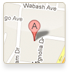
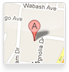
major updates! GETTING CLOSER!

diff --git a/webapp/views/home/index.html b/webapp/views/home/index.html
@@ -1,60 +1,76 @@
 <div class="col8" id="left-col">
 	<article>
-	<h2>
-		Welcome to EnterMedia 8</h2>
-	<div id="home-video">
-		&nbsp;</div>
-	<aside class="breakout">With <strong>EnterMedia 8</strong> you can create your own branded media sharing website similar to <strong>YouTube</strong> or <strong>Flickr</strong> using Open Source technologies. </aside> <section class="columns">
-	<h6>
-		Secure Permissions</h6>
-	<p>
-		With EnterMedia you can fully customize permissions to grant or restrict user access to certain files and features. Additionally EnterMedia tracks and stores history for each uploaded asset so that you stay informed about your data.</p>
-	<h6>
-		Integrated</h6>
-	<p>
-		Switching over to EnterMedia doesn&#39;t mean losing the look and feel of your current site. Our interface can be customized to blend seamlessly with you existing site, giving you the power to host your own media in a controlled and branded environment.</p>
-	<h6>
-		Scalable</h6>
-	<p>
-		EnterMedia easily keeps pace with your departments growth. One EnterMedia Installation can host as many catalogs and instances as you need, so you never need to worry about outgrowing your server platform.</p>
-<!--h6>Share Photos &amp; Videos</h6>
-		    			<p>Lorem ipsum dolor sit amet, consectetur adipisicing elit, sed do eiusmod tempor incididunt ut labore et dolore magna aliqua. Ut enim ad minim veniam, quis nostrud exercitation ullamco laboris nisi ut aliquip ex ea commodo consequat. Duis aute irure dolor in reprehenderit in voluptate velit esse cillum dolore eu fugiat nulla pariatur.</p> 
-		    			<h6>Create a Community</h6>	
-		    			<p>Excepteur sint occaecat cupidatat non proident, sunt in culpa qui officia deserunt mollit anim id est laborum.Lorem ipsum dolor sit amet, consectetur adipisicing elit, sed do eiusmod tempor incididunt ut labore et dolore magna aliqua. Ut enim ad minim veniam, quis nostrud exercitation ullamco laboris nisi ut aliquip ex ea commodo consequat. Duis aute irure dolor in reprehenderit in voluptate velit esse cillum dolore eu fugiat nulla pariatur.</p> 
-		    			<h6>Organize Your Files</h6>
-		    			<p>Velit esse cillum dolore eu fugiat nulla pariatur. Excepteur sint occaecat cupidatat non proident, sunt in culpa qui officia deserunt mollit anim id est laborum.</p>
-		    			<h6>Go Further</h6>
-		    			<p>Ut enim ad minim veniam, quis nostrud exercitation ullamco laboris nisi ut aliquip ex ea commodo consequat. Duis aute irure dolor in reprehenderit in voluptate v. Sed do eiusmod tempor incididunt ut labore et dolore magna aliqua. Ut enim ad minim veniam, quis nostrud exercitation ullamco laboris nisi ut aliquip ex ea commodo consequat. Duis aute irure dolor in reprehenderit in voluptate velit esse cillum dolore eu fugiat nulla pariatur. Excepteur sint occaecat cupidatat non proident, sunt in culpa qui officia deserunt mollit anim id est laborum.</p -->	</section> <article>
-	<div class="big-button">
-		<a class="btn" href="/views/tour/index.html">Evaluate Entermedia 8</a>
-		<p>
-			Take our tour!</p>
-	</div>
-	</article></article></div>
+		<h2> Welcome to EnterMedia 8</h2>
+		<aside class="breakout">
+			With <strong>EnterMedia 8</strong> you can create your own branded media sharing website similar to <strong>YouTube</strong> or <strong>Flickr</strong> using Open Source technologies.
+		</aside>
+		<section class="columns">
+			<section class="columns-2">
+				<h6> Secure Permissions</h6>
+				<p>
+					With EnterMedia you can fully customize permissions to grant or restrict user access to certain files and features. Additionally EnterMedia tracks and stores history for each uploaded asset so that you stay informed about your data.
+				</p>
+				<h6> Integrated</h6>
+				<p>
+					Switching over to EnterMedia doesn&#39;t mean losing the look and feel of your current site. Our interface can be customized to blend seamlessly with you existing site, giving you the power to host your own media in a controlled and branded environment.
+				</p>
+				<h6> Scalable</h6>
+				<p>
+					EnterMedia easily keeps pace with your departments growth. One EnterMedia Installation can host as many catalogs and instances as you need, so you never need to worry about outgrowing your server platform.
+				</p>
+			</section>
+			<!--h6>Share Photos &amp; Videos</h6>
+			<p>Lorem ipsum dolor sit amet, consectetur adipisicing elit, sed do eiusmod tempor incididunt ut labore et dolore magna aliqua. Ut enim ad minim veniam, quis nostrud exercitation ullamco laboris nisi ut aliquip ex ea commodo consequat. Duis aute irure dolor in reprehenderit in voluptate velit esse cillum dolore eu fugiat nulla pariatur.</p>
+			<h6>Create a Community</h6>
+			<p>Excepteur sint occaecat cupidatat non proident, sunt in culpa qui officia deserunt mollit anim id est laborum.Lorem ipsum dolor sit amet, consectetur adipisicing elit, sed do eiusmod tempor incididunt ut labore et dolore magna aliqua. Ut enim ad minim veniam, quis nostrud exercitation ullamco laboris nisi ut aliquip ex ea commodo consequat. Duis aute irure dolor in reprehenderit in voluptate velit esse cillum dolore eu fugiat nulla pariatur.</p>
+			<h6>Organize Your Files</h6>
+			<p>Velit esse cillum dolore eu fugiat nulla pariatur. Excepteur sint occaecat cupidatat non proident, sunt in culpa qui officia deserunt mollit anim id est laborum.</p>
+			<h6>Go Further</h6>
+			<p>Ut enim ad minim veniam, quis nostrud exercitation ullamco laboris nisi ut aliquip ex ea commodo consequat. Duis aute irure dolor in reprehenderit in voluptate v. Sed do eiusmod tempor incididunt ut labore et dolore magna aliqua. Ut enim ad minim veniam, quis nostrud exercitation ullamco laboris nisi ut aliquip ex ea commodo consequat. Duis aute irure dolor in reprehenderit in voluptate velit esse cillum dolore eu fugiat nulla pariatur. Excepteur sint occaecat cupidatat non proident, sunt in culpa qui officia deserunt mollit anim id est laborum.</p -->
+		</section>
+		<article>
+			<div class="big-button">
+				<a class="btn" href="/views/tour/index.html">Evaluate Entermedia 8</a>
+				<p>
+					Take our tour!
+				</p>
+			</div>
+		</article>
+	</article>
+</div>
 <div class="col4" id="right-col">
 	<div class="big-button">
 		<a class="btn" href="/views/plans/index.html">See Plans &amp; Pricing</a>
 		<p>
-			Or get the <a href="/views/download/index.html">Source Code!</a></p>
+			Or get the <a href="/views/download/index.html">Source Code!</a>
+		</p>
 	</div>
 	<div class="stb">
 		<div class="stb-top">
-			&nbsp;</div>
+			&nbsp;
+		</div>
 		<div class="steps-to-buy">
 			<div class="sidebar-title">
-				<span class="install ir">Installation</span> <a href="/views/tour/index.html#installation">Installation</a></div>
+				<span class="install ir">Installation</span><a href="/views/tour/index.html#installation">Installation</a>
+			</div>
 			<p>
-				Our knowledgeable staff can help you install EnterMedia on your server based on your specific requirements. Find out more . . .</p>
+				Our knowledgeable staff can help you install EnterMedia on your server based on your specific requirements.
+			</p>
 			<div class="sidebar-title">
-				<span class="training ir">Training</span> <a href="/views/tour/index.html#training">Training</a></div>
+				<span class="training ir">Training</span><a href="/views/tour/index.html#training">Training</a>
+			</div>
 			<p>
-				We now offer On-site training to help you make the most of your EnterMedia Software. Take a look at our competitive pricing, and find out how we can bring your understanding to the next level.</p>
+				We offer training to help you make the most of your EnterMedia Software. Take a look at our competitive pricing, and find out how we can bring your understanding to the next level.
+			</p>
 			<div class="sidebar-title">
-				<span class="support ir">Support</span> <a href="/views/tour/index.html#support">Support</a></div>
+				<span class="support ir">Support</span><a href="/views/tour/index.html#support">Support</a>
+			</div>
 			<p>
-				EnterMedia developers are always available should you require consulting or customization for your installation. Read more . . .</p>
+				EnterMedia developers are always available should you require consulting or customization for your installation.
+			</p>
 		</div>
 		<div class="stb-bottom">
-			&nbsp;</div>
+			&nbsp;
+		</div>
 	</div>
 </div>

diff --git a/webapp/views/features/index.html b/webapp/views/features/index.html
@@ -1,24 +1,29 @@
 <div class="col12">
 	<img alt="Enterprise Media Library" src="$home/media/features/eml_banner.jpg" style="margin: 20px 0px;">
 	<aside class="breakout">
-		<strong> In EnterMedia "applications," form the core</strong> of the installation and in addition to that you can add extensible applications. With EnterMedia 8 we finally have an out of the box solution that addresses most of our customers needs. After over 10 years of consulting in the Digital Asset Management arena we have developed a platform that addresses the variety of tasks required for an enterprise level server.
+		<strong> The EnterMedia evironment is powered by applications.</strong> Applications are powered by the core server and provide different, focused solutions to our clients problems. All applications are customizable from the ground up.   EnterMedia is an open source platform giving you access to as much or as little code as you desire.
 	</aside>
 	<section class="columns-2">
 		<p>
-			EnterMedia 8 ships with three applications that form the core of your installation. Library, Share, and Manager. Library is the behemoth. We have robust metadata tables that enable you to quickly find the media you are looking for. Share is like a light weight version of Library. It helps you set up a new website quickly so you can share your media easily. Manager lets you control the infrastructure of your installation, adding catalogs and creating new instances easily.
+			With EnterMedia 8, we have devised an out of the box solution that addresses most of our customers needs. This version is the culmination of our ten years of consulting in the Digital Asset Management arena. Our code has evolved and has been developed into a platform that addresses the variety of tasks required for an enterprise level server.
+		</p>
+		<p>
+			EnterMedia 8 ships with three applications that form the core of your installation: Library, Share, and Manager. Each application has its own unique environment and user friendly interface. Library is data driven and empowers team members to do work behind the scenes. Share is about community and provides an intuitive environment for visitors and other technology muggles. Manager allows the technical puppeteers to redefine the rules of engagement, strengthen security, and customize or create new catalogs.
 		</p>
 		<p>
 			What EnterMedia 8 does is consolidate our past ten years of private consulting services where we have customized our installations to the clients specifications. Since then, we have addressed so many things, but there has been some overlap. We have taken those features that are the most commonly requested, and built a release around it, and we think you are going to enjoy using it.
 		</p>
 	</section>
-	
 	<div class="hr" style="margin: 20px 0;"></div>
 	<div class="row">
 		<div class="col4">
-			<h5> Enterprise Media Library (EML)</h5>
+			<h5> EnterMedia Library</h5>
 			<img style="margin-bottom: 15px;" src="$home$themeprefix/images/features-eml.png" />
 			<p>
-				The Enterprise Media Library application is where you manage your assets, and it is feature packed to aid you in administration. You can setup permissions and enable security to control your content. You can search for media and edit metadata at the deepest levels. A lot of companies come to us asking how much it will cost to expand their installation, and many times they don&#39;t realize they have those capabilities already. We have a new user interface that makes EML easy and pleasant to work with. Library is robust organizing tool, and the best way to learn more about it is to contact us.
+				The Enterprise Media Library application is where you manage your assets, and it is feature packed to aid you in administration. You can setup permissions and enable security to control your content. You can search for media and edit metadata at the deepest levels.
+			</p>
+			<p>
+				A lot of companies come to us asking how much it will cost to expand their installation, and many times they don&#39;t realize they have those capabilities already. We have a new user interface that makes Library easy and pleasant to work with. Library is robust organizing tool, and the best way to learn more about it is to contact us.
 			</p>
 		</div>
 		<div class="col4">
@@ -27,12 +32,12 @@
 			<p>
 				EnterMedia share is a web-based media sharing and distribution application. It is like a light weight version of the library application that enables you to quickly share your content online. Share looks like a website. You can change your logo, you can change the color scheme. So, you can make it your own. It allows people to comment, share to Facebook, upload, view assets in galleries, and play videos.
 			</p>
-			</div>
+		</div>
 		<div class="col4">
 			<h5> EnterMedia Manager</h5>
 			<img style="margin-bottom: 15px;" src="$home$themeprefix/images/features-manager.png" />
 			<p>
-				For the brand new release of EnterMedia 8, we decide to rethink the way you manager your installation.  With the manager application you get a top-down view of your system, and that gives you knowledge.   Manager is one of three bundled applications that form the core of the EnterMedia feature set.  Once you initiate a new catalog, you can quickly add an instance of the Enterprise Media Library, and then a Share website to distribute your content.  With just a few clicks you'll be up and running, and ready to upload your media.  Our new application interface has an inviting feel, inspired by today's industry leaders.
+				For the brand new release of EnterMedia 8, we decided to rethink the way you manage your installation.  With the manager application you get a top-down view of your system, and that gives you knowledge.   Manager is one of three bundled applications that form the core of the EnterMedia feature set.  Once you initiate a new catalog, you can quickly add an instance of the Enterprise Media Library, and then a Share website to distribute your content.  With just a few clicks you'll be up and running, and ready to upload your media.  Our new application interface has an inviting feel, inspired by today's industry leaders.
 			</p>
 		</div>
 	</div>
@@ -87,7 +92,7 @@
 				<li>
 					<strong>Simple Search and Advanced Search</strong> - Searches through 100,000's of assets across multiple catalogs in milliseconds. Displays recommended and related search terms.
 				</li>
-								<li>
+				<li>
 					<strong>Dynamic Search Query Builder</strong> - Add any available meta-data field to your search query on-the-fly.
 				</li>
 			</ul>
@@ -124,7 +129,6 @@
 				<li>
 					<strong>Immediate download of originals and zipped assets</strong>
 				</li>
-				
 				<li>
 					<strong>Multi-Language Support</strong>
 				</li>

diff --git a/webapp/views/about/index.html b/webapp/views/about/index.html
@@ -1,10 +1,27 @@
 <div class="col8" id="left-col">
 	<article>
-	<div id="home-video">
-		&nbsp;</div>
-	<aside class="breakout"> <strong>EnterMedia was launched in 2008</strong> with headquarters in Cincinnati, Ohio with representatives in Canada, California, New York and South America. Christopher Burkey is the original creator of EnterMedia and has been a CEO within the digital media industry for over 10 years. </aside> <section class="columns">
-	<p>
-		EnterMedia has over 10 years experience developing digital asset managment and content management systems for enterprise clients who have installed EnterMedia for the video publishing and marketing needs. We have also had good experiences working closely with large websites such as the Slamdance film festival and EQOUS, India&#39;s largest industrial products portal.</p>
-	<p>
-		Enterprise clients such as World Wrestling Entertainment use EnterMedia for sharing assets with licesnsees while Primedia, who runs apartmentguide.com and rentals.com use EnterMedia to manage millions of assets for their websites. ALM, the largest legal magazine publisher in the world, uses EnterMedia for tracking documents within their company and publishing them through their websites.</p>
-	</section> <article> </article></article></div>
+		<h2>EnterMedia: Then and Now.</h2>
+		<aside class="breakout">
+			<strong>EnterMedia was launched in 2008</strong> with headquarters in Cincinnati, Ohio with representatives in Canada, California, New York and South America. Christopher Burkey is the original creator of EnterMedia and has been a CEO within the digital media industry for over 10 years.
+		</aside>
+		<section class="columns">
+			<p>
+				EnterMedia was launched in 2008 with its headquarters in Cincinnati, Ohio. We currently have developers and other team members
+				in Canada, California, New York and South America. Christopher Burkey is our wizard behind the curtain and has been a CEO in
+				the digital media industry for over ten years.
+			</p>
+			<p>
+				With a decade of experience in developing digital asset management software and content management systems for enterprise clients,
+				EnterMedia has a competitive edge in the ever-evolving market. Video publishing and marketing needs are driving corporate growth,
+				and we are at the forefront of innovation with modern features and a client based development model. Meaning that we let the needs
+				and direction of the market be our guiding star.
+			</p>
+			<p>
+				We have had amazing experiences working with a variety of customers, all with their own plethora of ideas. From entertainment
+				giants like Slamdance film festival and WWE, to educational organizations like Harvard University and the Educational
+				Theatre Association we provide the ability for each entity to share branded content with its customers, employees, or fan-base
+				like never before.
+			</p>
+		</section>
+	</article>
+</div>

diff --git a/webapp/views/download/index.html b/webapp/views/download/index.html
@@ -2,23 +2,38 @@
 	    		<article>
 		    		<h2>Feeling brave?</h2>
 		    		<aside class="breakout">
-		    			<strong>Download EnterMedia</strong> and begin your journey into the uncharted open source universe. 
+		    			<strong>Download EnterMedia</strong> and begin your journey into the open source universe. 
 		    			A library of your media on your terms is just a few clicks away.
 		    		</aside>
 		    		<p>
-		    			Just unzip the ROOT.war within your Java web server webapps directory. After deployment, your application is ready for use and customization. 
+		    			Just unzip the <strong>ROOT.war</strong> within your Java web server webapps directory. After deployment, your application is ready for use and customization. 
 		    			Pretty colors, flashy formats, and intuitive data arrangement are only limited to your imagination. Feel free to edit, arrange and organize your 
 		    			assets like the brave pioneer that you are.
 		    		</p>
 		    		<h5>Prefer a guide?</h5>
 					<p>
 					Send up a <a href="/views/contact/index.html">smoke signal</a> and we'll arrange a demo. Our team will walk you through the features and settings 
-					of our creation. Our model is flexible so you can direct the agenda and stick to what is relevant to your needs. We have provided solutions for 
+					of our creation. Our model is flexible so you can direct the agenda and stick to what is relevant to your needs. 
+					</p>
+					<p>
+					We have provided solutions for 
 					educational institutions, business environments, and entertainment empires. Your success is our success and we'll make sure that you're ready to 
 					ride before we take the training wheels away.
 					</p>
 		    	<article>
 	    	</div>
 	    	<div class="col4" id="right-col">
-	    		
+	    		<img style="margin-bottom: 15px;" src="$home$themeprefix/images/contact-icon.png" />
+	    		<p class="sidebar-block download">
+	    			<strong>EnterMedia 8.0:</strong><br />
+	    			<a href="#">Stable Release</a><br />
+	    		</p>
+	    		<p class="sidebar-block download">
+	    			<strong>EnterMedia 8.1 (Beta):</strong><br />
+	    			<a href="#">Nighly Build</a><br />
+	    		</p>
+	    		<p class="sidebar-block download">
+	    			<strong>EnterMedia 7.5 (Legacy):</strong><br />
+	    			<a href="#">Stable Release</a><br />
+	    		</p>
 	    	</div>

diff --git a/webapp/views/contact/index.html b/webapp/views/contact/index.html
@@ -1,12 +1,11 @@
 <div class="col12">
-	<h2>Connect with an Open Community.</h2> 
+	<h2>Connect with an Open Community</h2> 
 	<aside class="breakout">
 		Questions? Comments? Looking for a soul mate? We would love to help out with either of the first two. 
 		Just tell us a little about yourself and share the details. We have marketing, technical support, 
 		and an open interactive community of other people just like you who make a great audience.
 	</aside>
 </div>
-
 <div class="col8" id="left-col">
 		    	<form id="contact-us" class="clearfix">
 		    		<label for="name" class="clearfix first">Name
@@ -38,7 +37,16 @@
 		    	</form>
 	    	</div>
 	    	<div class="col4" id="right-col">
-	    		<p class="contact-block"><strong>EnterMedia Inc.</strong><br />
+	    		<img style="margin-bottom: 15px;" src="$home$themeprefix/images/contact-icon.png" />
+	    		<p class="sidebar-block phone">
+	    			<strong>Sales:</strong><br />
+	    			1 (937) 671-6212<br />
+	    		</p>
+	    		<p class="sidebar-block support">
+	    			<strong>Support:</strong><br />
+	    			<a href="mailto:gatekeeper@entermedisoftware.com">gatekeeper@entermedisoftware.com</a>	    		
+	    		</p>
+	    		<p class="sidebar-block map"><strong>EnterMedia Inc.</strong><br />
 				1550 Magnolia Dr.<br />
 				Cincinnati, Ohio, 45215</p>
 	    	</div>

diff --git a/webapp/views/plans/index.html b/webapp/views/plans/index.html
@@ -80,10 +80,13 @@
 		</hgroup>
 		<section>
 			<p>
-				Our mash up installation is the perfect way for developers to access our source code, so they can see first hand the potential power of the EnterMedia digital asset management system.  EnterMedia is open source so the code is freely available and we want to do our best to encourage development by interested parties.
+				Our Mash Up installation is the perfect way for developers to access our source code, so they can see first hand the potential power of the EnterMedia digital asset management system.  EnterMedia is open source so the code is freely available and we want to do our best to encourage development by interested parties.
 			</p>
 			<p>
 				Check back soon for our new development forum, where you will be able to submit issues to the community and search previous postings that might address your same issue.
+			</p>
+			<p>
+				In the meantime, visit our <a href="#">Google Groups</a> page for technical support discussions about EnterMedia's nightly builds.
 			</p>
 		</section>
 		<a class="scrollto" href="#top" style="text-align: right; display: block;">Back to Top</a>

diff --git a/webapp/theme/styles/theme.css b/webapp/theme/styles/theme.css
@@ -944,10 +944,22 @@ div.hr {
 
 /* CONTACT STYLES */
 
-p.contact-block {
-	background: url('../images/contact-map.png') top left no-repeat;
+p.sidebar-block {
 	color: #666;
-	padding: 8px 0 20px 80px;
+	padding: 17px 0 22px 80px;
+}
+p.sidebar-block.phone {
+	background: url('../images/contact-phone.png') top left no-repeat;
+}
+p.sidebar-block.support {
+	background: url('../images/contact-support.png') top left no-repeat;
+}
+p.sidebar-block.map {
+	background: url('../images/contact-map.png') top left no-repeat;
+	padding: 8px 0 25px 80px;
+}
+p.sidebar-block.download {
+	background: url('../images/download.png') top left no-repeat;
 }
 
 /* FORM STYLES */
@@ -958,7 +970,7 @@ form#contact-us {
 	border-radius: 5px;
 	padding: 20px;
 	box-shadow: 0 1px 3px rgba(0,0,0,0.1);
-	margin-top: 4px;
+	margin-top: 2px;
 }
 form *:focus {
 	outline: none;

diff --git a/webapp/views/slider/index.html b/webapp/views/slider/index.html
@@ -7,10 +7,10 @@
 				    		<img src="$home/media/slide-1.png" />
 				    	</li>
 				    	<li>
-				    		<a href="#"><img src="$home/media/blank-slide.png" /></a>
+				    		<a href="/views/features/index.html#library"><img src="$home/media/slide-2.png" /></a>
 				    	</li>
 				    	<li>
-				    		<img src="$home/media/slide-1.png" />
+				    		<img src="$home/media/slide-3.png" />
 				    	</li>
 				    	<li>
 				    		<a href="#"><img src="$home/media/blank-slide.png" /></a>
